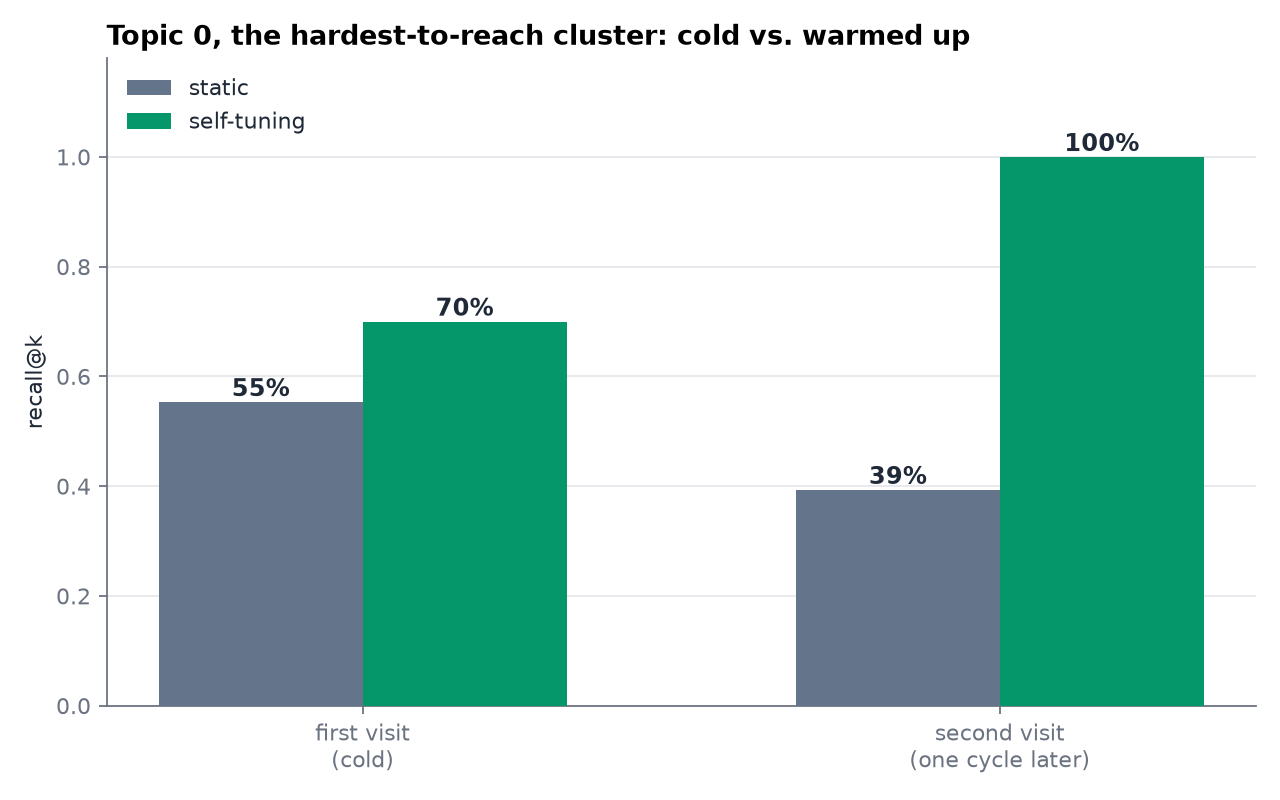
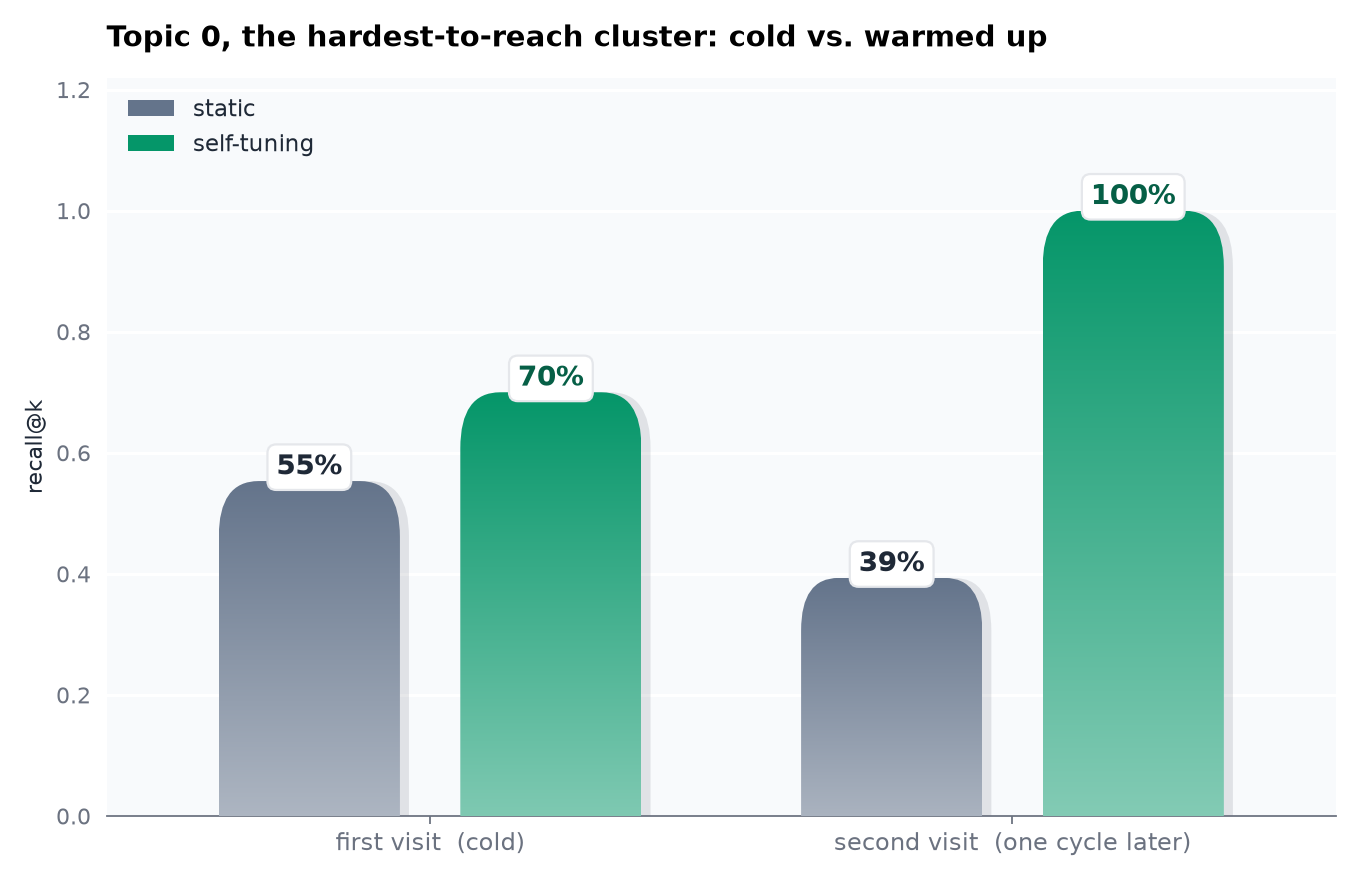
style: rounded gradient bars with shadow and value chips for the summary and cold-start charts

diff --git a/src/adaptann/viz.py b/src/adaptann/viz.py
@@ -17,17 +17,74 @@ _TEXT = "#1f2937"
 _MUTED = "#6b7280"
 _BAND_A = "#f8fafc"
 _BAND_B = "#f1f5f9"
+_SHADOW = "#0f172a"
 
 
 def _style_axis(ax) -> None:
     ax.spines["top"].set_visible(False)
     ax.spines["right"].set_visible(False)
-    ax.spines["left"].set_color(_MUTED)
+    ax.spines["left"].set_visible(False)
     ax.spines["bottom"].set_color(_MUTED)
-    ax.tick_params(colors=_MUTED)
+    ax.tick_params(colors=_MUTED, left=False)
     ax.title.set_color(_TEXT)
     ax.xaxis.label.set_color(_TEXT)
     ax.yaxis.label.set_color(_TEXT)
+
+
+def _lighten(hex_color: str, amount: float) -> tuple:
+    from matplotlib.colors import to_rgb
+
+    r, g, b = to_rgb(hex_color)
+    return (r + (1 - r) * amount, g + (1 - g) * amount, b + (1 - b) * amount)
+
+
+def _gradient_bar(ax, x_center: float, height: float, width: float, color: str, *, zorder: int = 3) -> None:
+    """A single bar with a rounded top, a soft vertical color gradient, and
+    a faint drop shadow, instead of a flat-filled rectangle. The rounded
+    bottom corners a plain FancyBboxPatch would draw are pushed below
+    ``y=0`` and cropped away by the axes' own clip box, so only the top
+    stays visibly rounded."""
+    import numpy as np
+    from matplotlib.colors import LinearSegmentedColormap
+    from matplotlib.patches import FancyBboxPatch
+
+    if height <= 0:
+        return
+    radius = min(width, height) * 0.22
+
+    shadow = FancyBboxPatch(
+        (x_center - width / 2 + width * 0.05, -radius),
+        width, height + radius,
+        boxstyle=f"round,pad=0,rounding_size={radius}",
+        linewidth=0, facecolor=_SHADOW, alpha=0.10, zorder=zorder - 1,
+        transform=ax.transData,
+    )
+    ax.add_patch(shadow)
+
+    outline = FancyBboxPatch(
+        (x_center - width / 2, -radius), width, height + radius,
+        boxstyle=f"round,pad=0,rounding_size={radius}",
+        linewidth=0, facecolor="none", zorder=zorder,
+        transform=ax.transData,
+    )
+    ax.add_patch(outline)
+
+    cmap = LinearSegmentedColormap.from_list("bar", [_lighten(color, 0.55), color])
+    gradient = np.linspace(0, 1, 256).reshape(-1, 1)
+    im = ax.imshow(
+        gradient, extent=(x_center - width / 2, x_center + width / 2, -radius, height),
+        origin="lower", aspect="auto", cmap=cmap, zorder=zorder,
+        transform=ax.transData,
+    )
+    im.set_clip_path(outline)
+
+
+def _value_chip(ax, x_center: float, y: float, text: str, *, color: str = _TEXT) -> None:
+    ax.text(
+        x_center, y, text, ha="center", va="bottom", fontsize=12.5, color=color, fontweight="bold",
+        bbox={"boxstyle": "round,pad=0.32", "facecolor": "white", "edgecolor": _GRID, "linewidth": 1},
+        zorder=6,
+    )
 
 
 def plot_recall_over_time(
@@ -87,28 +144,33 @@ def plot_summary_bars(
     path,
 ) -> None:
     """One figure, two panels: mean recall@k and p99 search latency,
-    static vs. self-tuning, side by side."""
+    static vs. self-tuning, side by side, as rounded gradient bars with a
+    soft shadow and a labeled value chip above each one."""
     import matplotlib.pyplot as plt
 
-    fig, (ax1, ax2) = plt.subplots(1, 2, figsize=(11, 4.6))
+    fig, (ax1, ax2) = plt.subplots(1, 2, figsize=(11.5, 5))
     fig.patch.set_facecolor("white")
     labels = ["static", "self-tuning"]
     colors = [_STATIC, _ADAPTIVE]
+    bar_width = 0.5
 
     for ax, values, title, ylabel, fmt in (
-        (ax1, [mean_static_recall, mean_adaptive_recall], "Mean recall@k (whole run)", "recall@k", "{:.1%}"),
-        (ax2, [p99_static_ms, p99_adaptive_ms], "p99 search latency", "milliseconds", "{:.2f}"),
+        (ax1, [mean_static_recall, mean_adaptive_recall], "Mean recall@k, whole run", "recall@k", "{:.1%}"),
+        (ax2, [p99_static_ms, p99_adaptive_ms], "p99 search latency", "milliseconds", "{:.2f} ms"),
     ):
-        bars = ax.bar(labels, values, color=colors, width=0.55, zorder=3)
-        for bar, val in zip(bars, values, strict=True):
-            ax.text(
-                bar.get_x() + bar.get_width() / 2, bar.get_height(), fmt.format(val),
-                ha="center", va="bottom", fontsize=11, color=_TEXT, fontweight="bold",
-            )
-        ax.set_title(title, fontsize=12, fontweight="bold", loc="left")
+        ax.set_facecolor(_BAND_A)
+        for i, (val, color) in enumerate(zip(values, colors, strict=True)):
+            _gradient_bar(ax, i, val, bar_width, color)
+            _value_chip(ax, i, val, fmt.format(val), color=_ADAPTIVE_DARK if color == _ADAPTIVE else _TEXT)
+
+        ax.set_xticks(range(len(labels)))
+        ax.set_xticklabels(labels, fontsize=11)
+        ax.set_xlim(-0.6, len(labels) - 0.4)
+        ax.set_title(title, fontsize=13, fontweight="bold", loc="left", pad=14)
         ax.set_ylabel(ylabel)
-        ax.set_ylim(0, max(values) * 1.25)
-        ax.grid(axis="y", color=_GRID, linewidth=0.8, zorder=0)
+        ax.set_ylim(0, max(values) * 1.32)
+        ax.grid(axis="y", color="white", linewidth=1.4, zorder=0)
+        ax.set_axisbelow(True)
         _style_axis(ax)
 
     fig.tight_layout()
@@ -128,36 +190,44 @@ def plot_cold_start_recovery(
     topic cluster's recall@k on its first burst of traffic (cold, nobody
     promoted yet) versus its second burst, a full cycle later (adaptive
     has already densified it and never forgets; static hasn't changed at
-    all, because it can't)."""
+    all, because it can't). Rounded gradient bars with a value chip on
+    each, matching the rest of this project's charts."""
+    import matplotlib.patches as mpatches
     import matplotlib.pyplot as plt
 
-    fig, ax = plt.subplots(figsize=(8, 5))
+    fig, ax = plt.subplots(figsize=(8.5, 5.5))
     fig.patch.set_facecolor("white")
+    ax.set_facecolor(_BAND_A)
 
-    groups = ["first visit\n(cold)", "second visit\n(one cycle later)"]
-    x = range(len(groups))
-    width = 0.32
+    groups = ["first visit  (cold)", "second visit  (one cycle later)"]
+    centers = [0.0, 1.35]
+    offset = 0.28
+    width = 0.42
 
     static_vals = [static_first_visit, static_second_visit]
     adaptive_vals = [adaptive_first_visit, adaptive_second_visit]
 
-    bars1 = ax.bar([i - width / 2 for i in x], static_vals, width, color=_STATIC, label="static", zorder=3)
-    bars2 = ax.bar([i + width / 2 for i in x], adaptive_vals, width, color=_ADAPTIVE, label="self-tuning", zorder=3)
-    for bars in (bars1, bars2):
-        for bar in bars:
-            ax.text(
-                bar.get_x() + bar.get_width() / 2, bar.get_height(), f"{bar.get_height():.0%}",
-                ha="center", va="bottom", fontsize=11, color=_TEXT, fontweight="bold",
-            )
+    for c, s_val, a_val in zip(centers, static_vals, adaptive_vals, strict=True):
+        _gradient_bar(ax, c - offset, s_val, width, _STATIC)
+        _value_chip(ax, c - offset, s_val, f"{s_val:.0%}")
+        _gradient_bar(ax, c + offset, a_val, width, _ADAPTIVE)
+        _value_chip(ax, c + offset, a_val, f"{a_val:.0%}", color=_ADAPTIVE_DARK)
 
-    ax.set_xticks(list(x))
-    ax.set_xticklabels(groups)
+    ax.set_xticks(centers)
+    ax.set_xticklabels(groups, fontsize=11)
+    ax.set_xlim(-0.75, centers[-1] + 0.75)
     ax.set_ylabel("recall@k")
-    ax.set_ylim(0, 1.18)
+    ax.set_ylim(0, 1.22)
     title = f"Topic {topic}, the hardest-to-reach cluster: cold vs. warmed up"
-    ax.set_title(title, fontsize=12, fontweight="bold", loc="left")
-    ax.grid(axis="y", color=_GRID, linewidth=0.8, zorder=0)
-    ax.legend(loc="upper left", frameon=False, labelcolor=_TEXT)
+    ax.set_title(title, fontsize=13, fontweight="bold", loc="left", pad=14)
+    ax.grid(axis="y", color="white", linewidth=1.4, zorder=0)
+    ax.set_axisbelow(True)
+
+    handles = [
+        mpatches.Patch(facecolor=_STATIC, label="static"),
+        mpatches.Patch(facecolor=_ADAPTIVE, label="self-tuning"),
+    ]
+    ax.legend(handles=handles, loc="upper left", frameon=False, labelcolor=_TEXT, fontsize=10.5)
     _style_axis(ax)
 
     fig.tight_layout()
